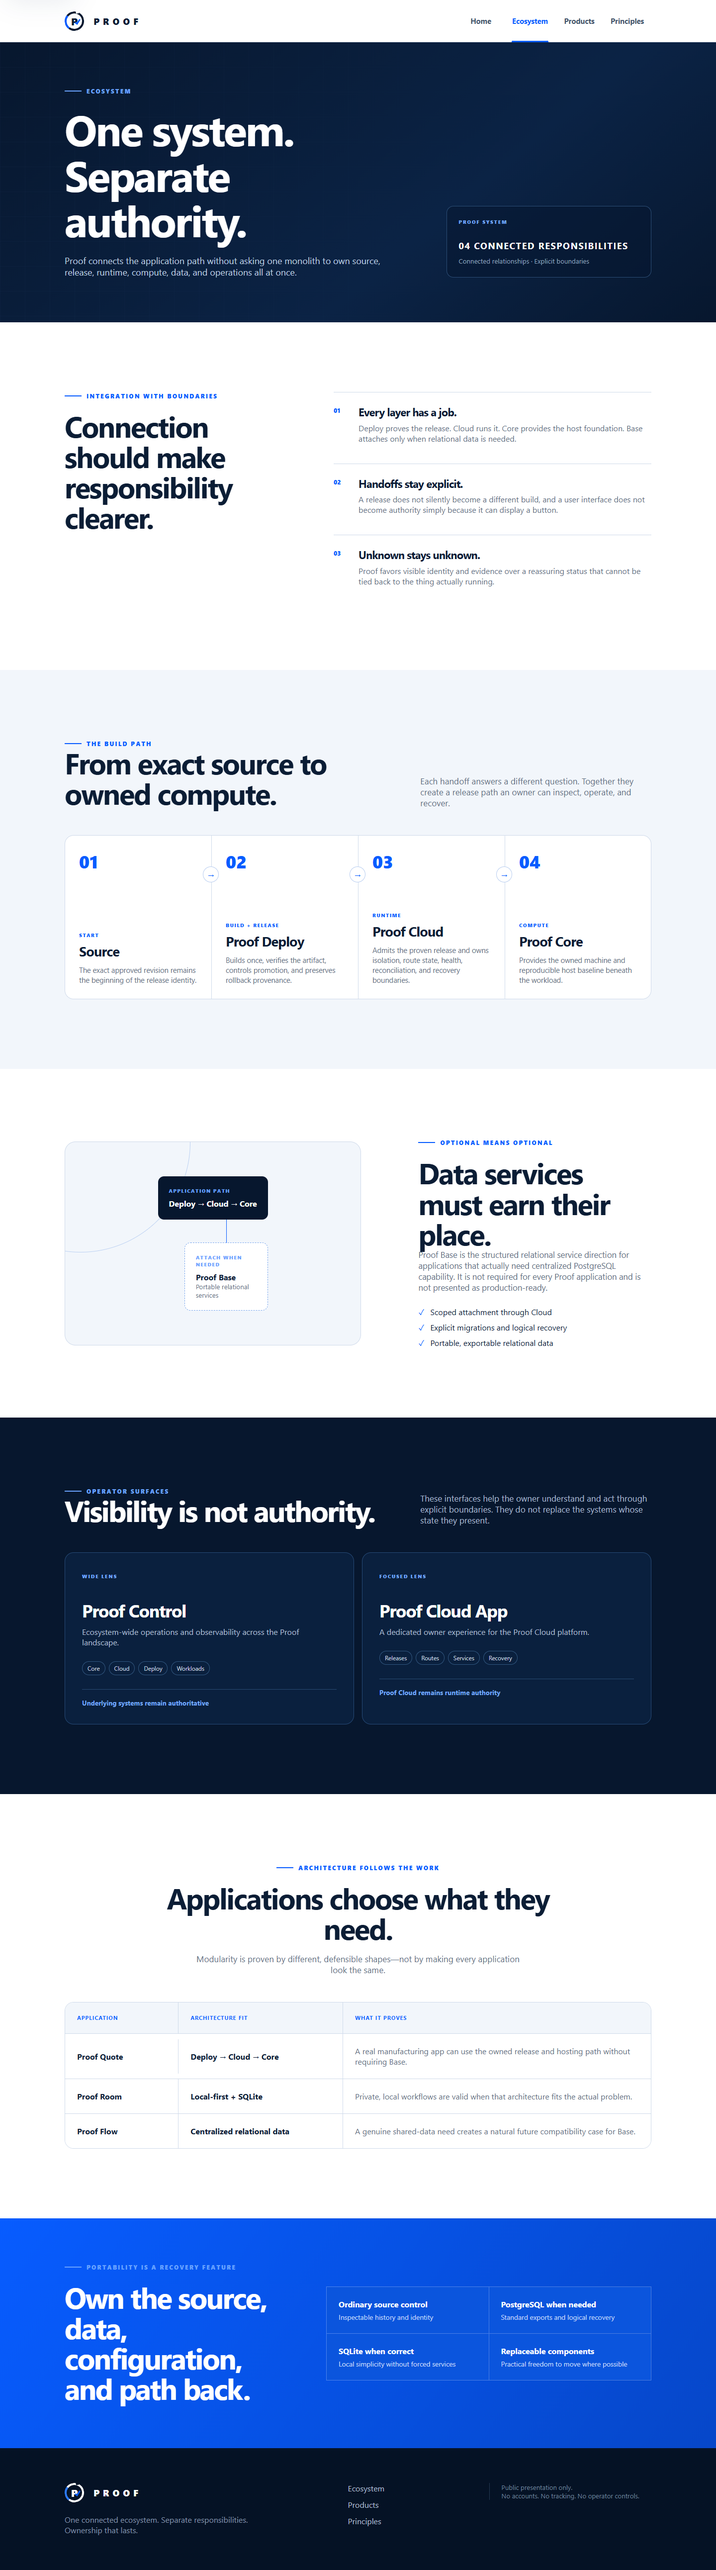
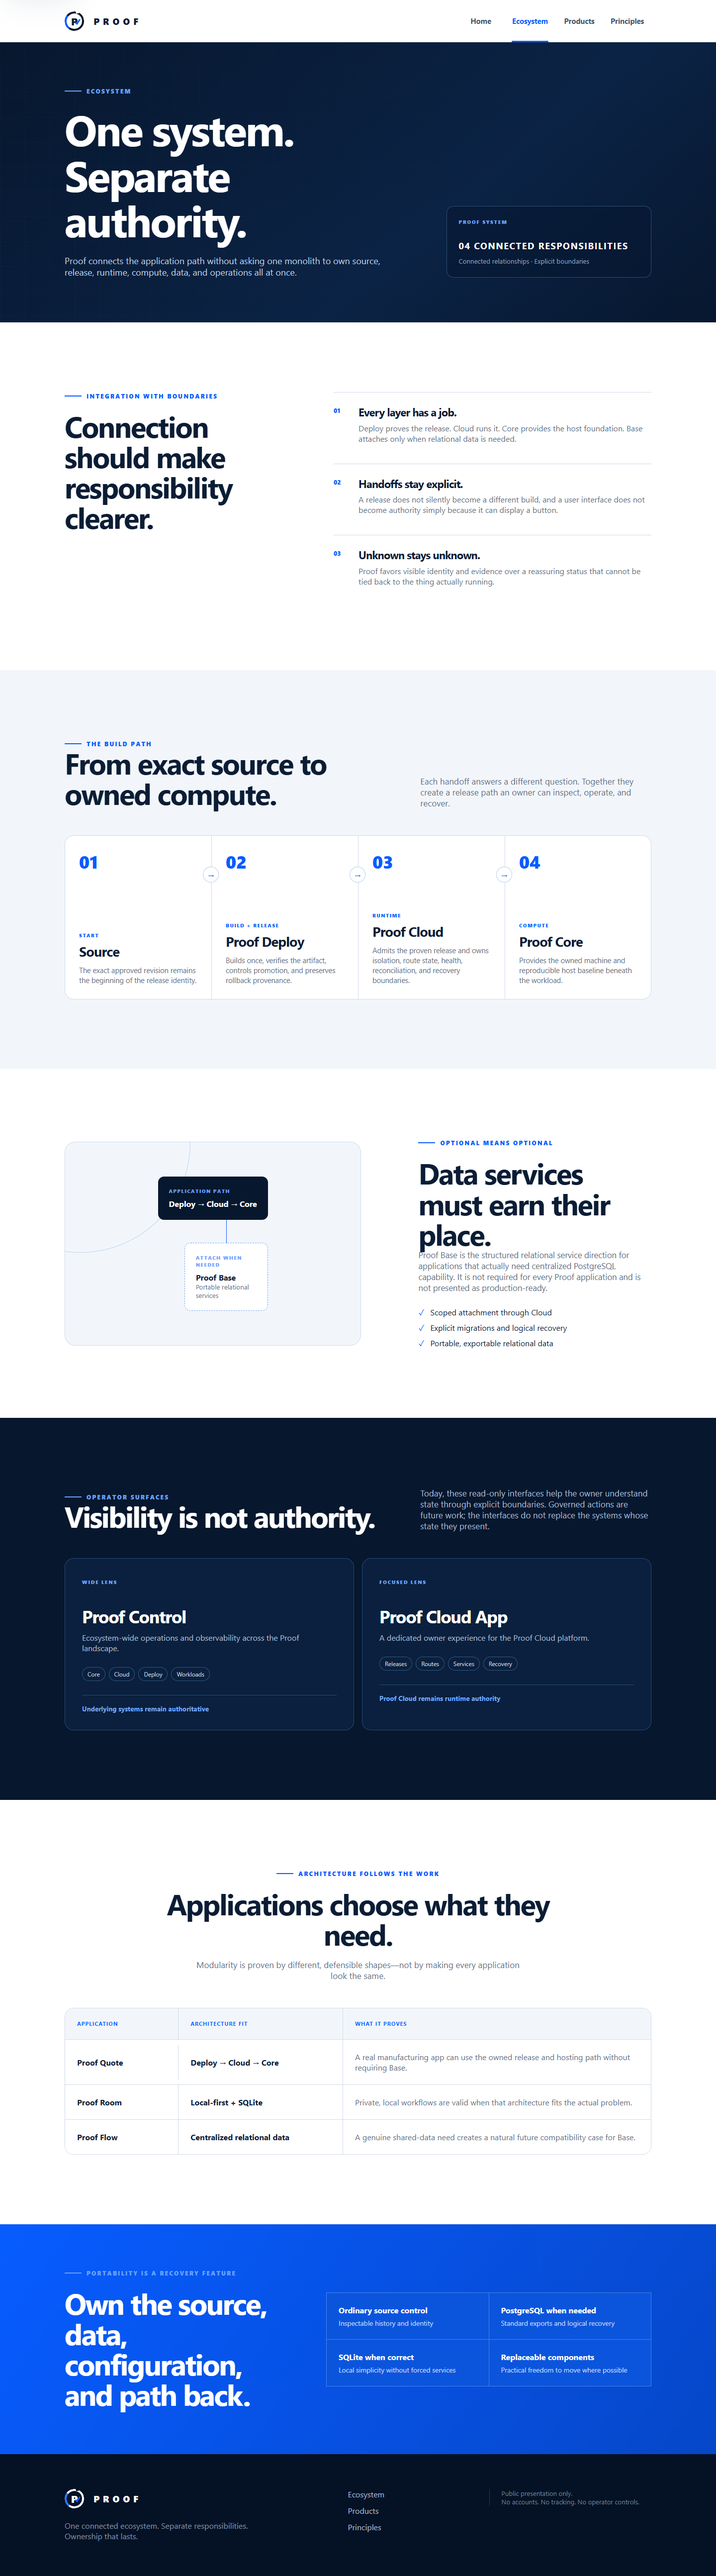
Repair W1 operator state wording

diff --git a/src/main.ts b/src/main.ts
@@ -257,7 +257,7 @@ function ecosystemPage(): string {
         <div class="shell">
           <div class="section-heading section-heading--split section-heading--light">
             <div><p class="eyebrow eyebrow--light"><span></span>Operator surfaces</p><h2>Visibility is not authority.</h2></div>
-            <p>These interfaces help the owner understand and act through explicit boundaries. They do not replace the systems whose state they present.</p>
+            <p>Today, these read-only interfaces help the owner understand state through explicit boundaries. Governed actions are future work; the interfaces do not replace the systems whose state they present.</p>
           </div>
           <div class="lens-comparison">
             <article><span class="lens-scope">WIDE LENS</span><h3>Proof Control</h3><p>Ecosystem-wide operations and observability across the Proof landscape.</p><div><span>Core</span><span>Cloud</span><span>Deploy</span><span>Workloads</span></div><small>Underlying systems remain authoritative</small></article>

diff --git a/src/content.ts b/src/content.ts
@@ -43,7 +43,7 @@ export const products: Product[] = [
     subtitle: "Ecosystem operations and observability",
     category: "Operations",
     description: "Provides a local-first place to understand the ecosystem as a whole while leaving authority with the systems it observes.",
-    capabilities: ["Ecosystem overview", "Operational context", "Attention signals", "Authority-preserving actions"]
+    capabilities: ["Ecosystem overview", "Operational context", "Attention signals", "Read-only visibility"]
   },
   {
     name: "Proof Cloud App",
